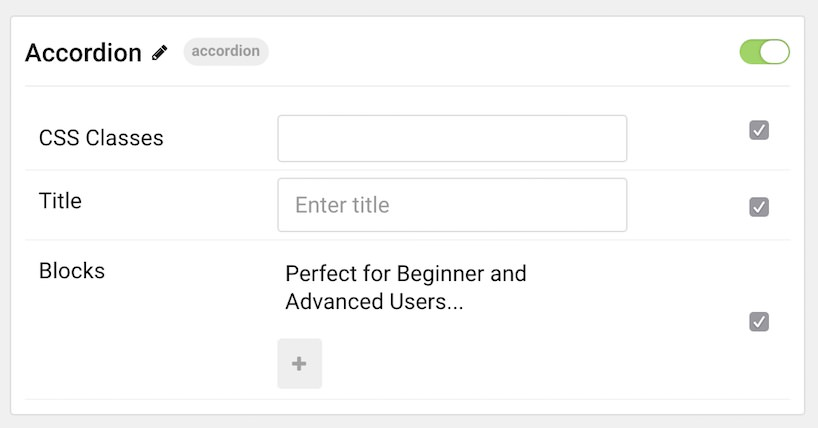
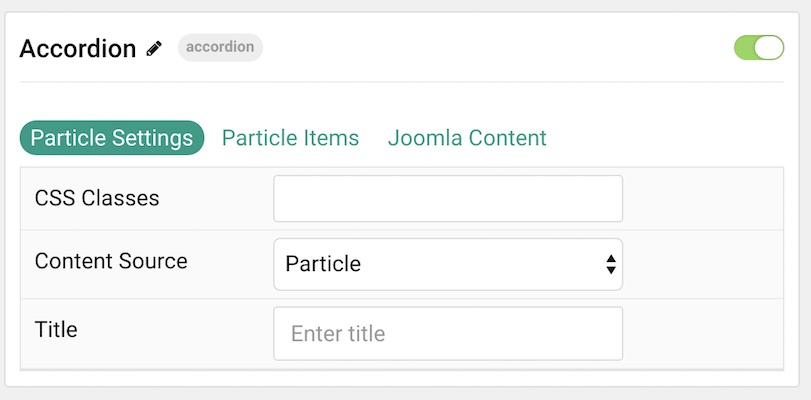
Joomla > Gemini > Accordion Particle Update

diff --git a/Docs/joomla/templates/gemini/particle_accordion.md b/Docs/joomla/templates/gemini/particle_accordion.md
@@ -17,20 +17,51 @@ Here are the topics covered in this guide:
 
 * [Configuration](#configuration)
     - [Main Options](#main-options)
+        + [Particle Settings](#tab-a---particle-settings)
+        + [Particle Items](#tab-b---particle-items)
+        + [Joomla Content](#tab-c---joomla-content)
     - [Item Options](#item-options)
 
 ### Main Options 
 
+#### Tab A - Particle Settings
+
 ![](assets/particle_accordion2.jpeg)
 
-| Option      | Description                                                         |
-| :-----      | :-----                                                              |
-| CSS Classes | Sets the CSS class for the content of the particle.                 |
-| Title       | Sets the title of the particle, as it will appear on the front end. |
+| Option         | Description                                                           |
+| :-----         | :-----                                                                |
+| CSS Classes    | Sets the CSS class for the content of the particle.                   |
+| Content Source | Choose between **Particle** and **Joomla** as your content source. |
+| Title          | Sets the title of the particle, as it will appear on the front end.   |
+
+#### Tab B - Particle Items
+
+This tab enables you to create items that appear in the particle. It is useful if you choose the **Particle** content source.
+
+![](assets/particle_accordion3.jpeg)
+
+#### Tab C - Joomla Content
+
+This tab is where you configure how Joomla content appears as items in the particle. It is useful if you choose the **Joomla** content source.
+
+![](assets/particle_accordion4.jpeg)
+
+| Option            | Description                                                                 |
+| :-----            | :-----                                                                      |
+| Joomla Categories | Select the categories of articles this particle will display.               |
+| Articles to Fetch | Select the number of articles you would like the particle to fetch.         |
+| Intro Image       | **Enable** or **Disable** the display of the article(s) featured image.     |
+| Intro Text        | **Enable** or **Disable** the display of the article(s) intro text.         |
+| Display Content   | **Enable** or **Disable** the display of the article(s) content or excerpt. |
+| Link              | **Enable** or **Disable** the linking of the article(s).                    |
+| Link Text         | Enter the text you wish to have displayed as the read more link.            |
+| Target            | Select **Self** or **New Window** as the target for the link.               |
 
 ### Item Options
 
-![](assets/particle_accordion3.jpeg)
+These items only appear on the front end if you select **Particle** as the **Content Source**.
+
+![](assets/particle_accordion5.jpeg)
 
 | Option         | Description                                                               |
 | :-----         | :-----                                                                    |
